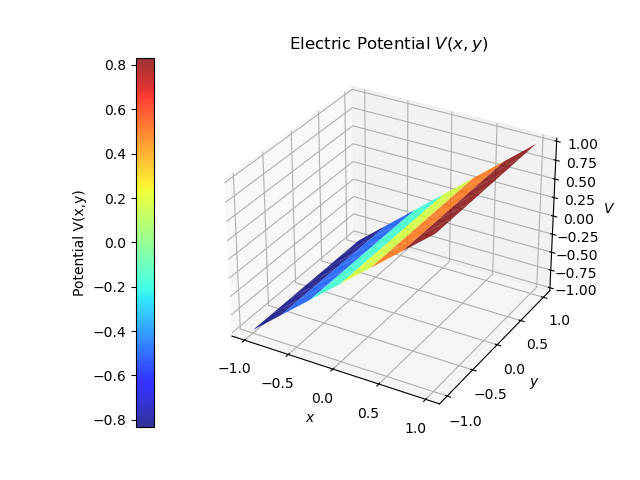
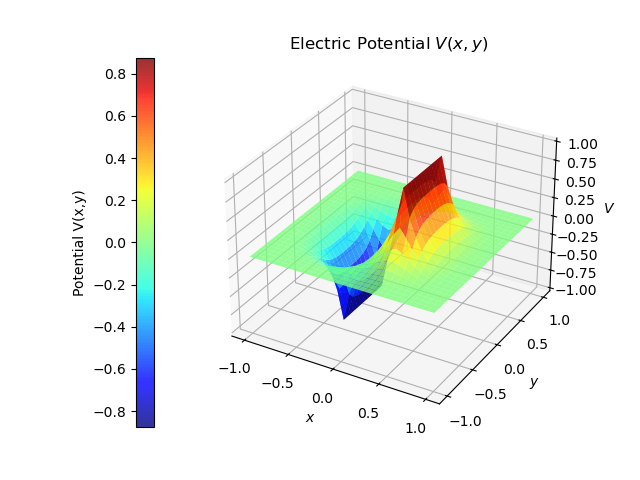
capacitor problem implemented

diff --git a/Campos Elétricos/potential_plots.py b/Campos Elétricos/potential_plots.py
@@ -17,24 +17,25 @@ def equipotential_lines(V, Lx, Ly):
 
     # Plot equipotential lines with color fill
     plt.figure()
-    plt.contourf(x, y, V, cmap='jet', alpha=0.8)
+    levels = np.linspace(V.min(), V.max(), 500)
+    plt.contourf(x, y, V, levels=levels, cmap=cm.jet, alpha=0.8)
     plt.title(r'Equipotential Lines')
     plt.xlabel(r'$x$')
     plt.ylabel(r'$y$')
-    plt.xlim([x.min() - 0.25, x.max() + 0.25])
-    plt.ylim([y.min() - 0.25, y.max() + 0.25])
+    plt.xlim([x.min(), x.max()])
+    plt.ylim([y.min(), y.max()])
     plt.colorbar(label='Potential (V)')
     plt.savefig("Campos Elétricos/figures/equipotential_lines1.png")
     plt.close()
 
     # Plot equipotential lines without color fill
     plt.figure()
-    plt.contour(x, y, V, colors='black')
+    plt.contour(x, y, V, levels=np.linspace(V.min(), V.max(), 50) ,colors='black')
     plt.title(r'Equipotential Lines')
     plt.xlabel(r'$x$')
     plt.ylabel(r'$y$')
-    plt.xlim([x.min() - 0.25, x.max() + 0.25])
-    plt.ylim([y.min() - 0.25, y.max() + 0.25])
+    plt.xlim([x.min(), x.max()])
+    plt.ylim([y.min(), y.max()])
     plt.savefig("Campos Elétricos/figures/equipotential_lines2.png")
     plt.close()
 
@@ -94,21 +95,23 @@ def electric_field(V, Lx, Ly):
     Ey = np.zeros_like(V)
 
     # Central differences to compute the gradient of V
-    Ex[:, 1:-1] = -(V[:, 2:] - V[:, :-2]) / (2 * dx)  # ∂V/∂x
-    Ey[1:-1, :] = -(V[2:, :] - V[:-2, :]) / (2 * dy)  # ∂V/∂y
+    Ex[:, 1:-1] = (-(V[:, 2:] - V[:, :-2]) / (2 * dx))  # ∂V/∂x
+    Ey[1:-1, :] = (-(V[2:, :] - V[:-2, :]) / (2 * dy))  # ∂V/∂y
 
     # Plot the potential as a heatmap
     plt.figure()
-    plt.contourf(X, Y, V, cmap='jet', alpha=0.8)
+    levels = np.linspace(V.min(), V.max(), 500)
+    plt.contourf(X, Y, V, levels=levels, cmap=cm.jet, alpha=0.8)
     plt.colorbar(label='Potential (V)')
 
     # Plot the electric field vectors as a quiver plot
-    plt.quiver(X, Y, Ex, Ey, color='black')
+    n=2
+    plt.quiver(X[::n, ::n], Y[::n, ::n], Ex[::n, ::n], Ey[::n, ::n], color='black')
 
     plt.title('Electric Field and Potential')
     plt.xlabel('x')
     plt.ylabel('y')
-    plt.xlim([x.min() - 0.25, x.max() + 0.25])
-    plt.ylim([y.min() - 0.25, y.max() + 0.25])
+    plt.xlim([x.min(), x.max()])
+    plt.ylim([y.min() , y.max()])
     
     plt.savefig('Campos Elétricos/figures/electric_field.png')

diff --git a/Campos Elétricos/potential_solver.py b/Campos Elétricos/potential_solver.py
@@ -1,6 +1,6 @@
 import numpy as np
 
-def update_V_Jacobi(V):
+def update_V(V):
     """
     Function that receives a potential V and aplies the Jacobi method to it
     and calculates the absolute difference between the new and old potentials.
@@ -12,7 +12,7 @@ def update_V_Jacobi(V):
         
     # Total (cumulative) change in V during this update loop
     ΔV = 0
-     # Dimension of the potential
+    # Dimension of the potential
     dim = len(V.shape)
 
     # Number of sites along a direction
@@ -23,15 +23,16 @@ def update_V_Jacobi(V):
         V_new = np.copy(V)
         for i in range(1, N-1):
             for j in range(1, N-1):
-                V_new[i, j] = (V[i+1, j] + V[i-1, j] +
-                               V[i, j+1] + V[i, j-1]) / 4
-                ΔV += abs(V_new[i, j] - V[i, j])
+                if (abs(V[i, j]) != 1):
+                    V_new[i, j] = (V[i+1, j] + V[i-1, j] +
+                                V[i, j+1] + V[i, j-1]) / 4
+                    ΔV += abs(V_new[i, j] - V[i, j])
 
     return V_new, ΔV
 
-def laplace_calculate_Jacobi(V):
+def laplace_calculate(V):
     """
-    Function that aplies the Jacobi relaxation method to a initial potential V
+    Function that aplies the relaxation method to a initial potential V
     until the new potential is within the tolerance range.
 
     Returns:
@@ -44,12 +45,12 @@ def laplace_calculate_Jacobi(V):
 
     # Perform 10 iterations initially
     for _ in range(10):
-        V_new, ΔV = update_V_Jacobi(V)
-        V, ΔV = update_V_Jacobi(V_new)
+        V_new, ΔV = update_V(V)
+        V, ΔV = update_V(V_new)
 
     # Continue iterating until ΔV is less than ε
     while ΔV < ε:
-        V_new, ΔV = update_V_Jacobi(V)
-        V, ΔV = update_V_Jacobi(V_new)
+        V_new, ΔV = update_V(V)
+        V, ΔV = update_V(V_new)
 
     return V

diff --git a/Campos Elétricos/potential_initializer.py b/Campos Elétricos/potential_initializer.py
@@ -22,12 +22,33 @@ def initialize_V_box(V1, V2, N):
     # Set linear variation between the potential sides
     ΔV = abs(V2 - V1)
     dV = ΔV / (N-1)
-    for i in range(1, N-1):  # Adjusted for Python's 0-based indexing
+    for i in range(1, N-1):
         if V1 < V2:
             V[0, i] = V[0, i-1] + dV
             V[N-1, i] = V[N-1, i-1] + dV
         else:
             V[0, i] = V[0, i-1] - dV
             V[N-1, i] = V[N-1, i-1] - dV
+
+    return V
+
+def initialize_V_capacitor(V1, V2, N):
+    """
+    Initialize an electric potential of a capacitor with the plates having potentials V1 and V2.
+    The potential grid has dimensions N x N.
+
+    Returns:
+    - `V`: Array with the proper boundary for the specified problem
+    """
+    # Create an initial guess for the potential (N x N grid)
+    V = np.zeros((N, N))
+
+    plate_begin = int(3*(N-1)/10)
+    plate_end = int(7*(N-1)/10)
+    first_third = int(N/3)
+    second_third = int(2*N/3)
+    # Position of the plates
+    V[plate_begin:plate_end, first_third] = V1
+    V[plate_begin:plate_end, second_third] = V2
 
     return V

diff --git a/Campos Elétricos/main.py b/Campos Elétricos/main.py
@@ -5,15 +5,15 @@ import potential_plots as PotentialPlots
 # Parameters
 V1 = -1.0
 V2 = 1.0
-N = 7
+N = 31
 Lx = 2.0
 Ly = 2.0
 
 # Initialize the potential box
-V = PotentialInitializer.initialize_V_box(V1, V2, N)
+V = PotentialInitializer.initialize_V_capacitor(V1, V2, N)
 
 # Solve using Jacobi method
-V_final = PotentialSolver.laplace_calculate_Jacobi(V)
+V_final = PotentialSolver.laplace_calculate(V)
 
 # Plot results
 PotentialPlots.equipotential_lines(V_final, Lx, Ly)
